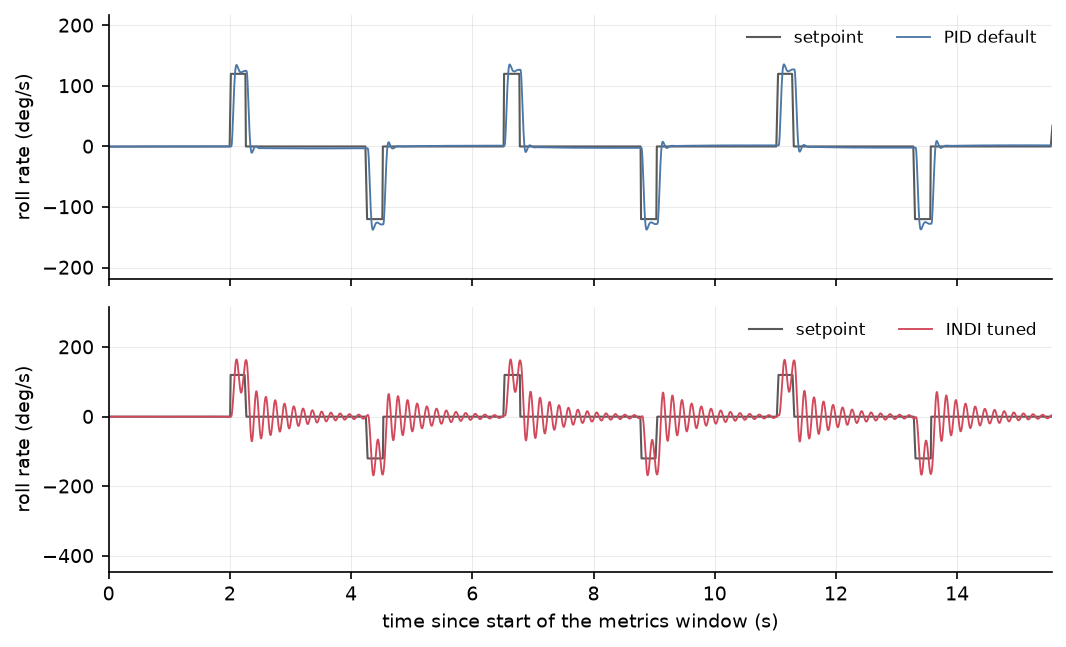
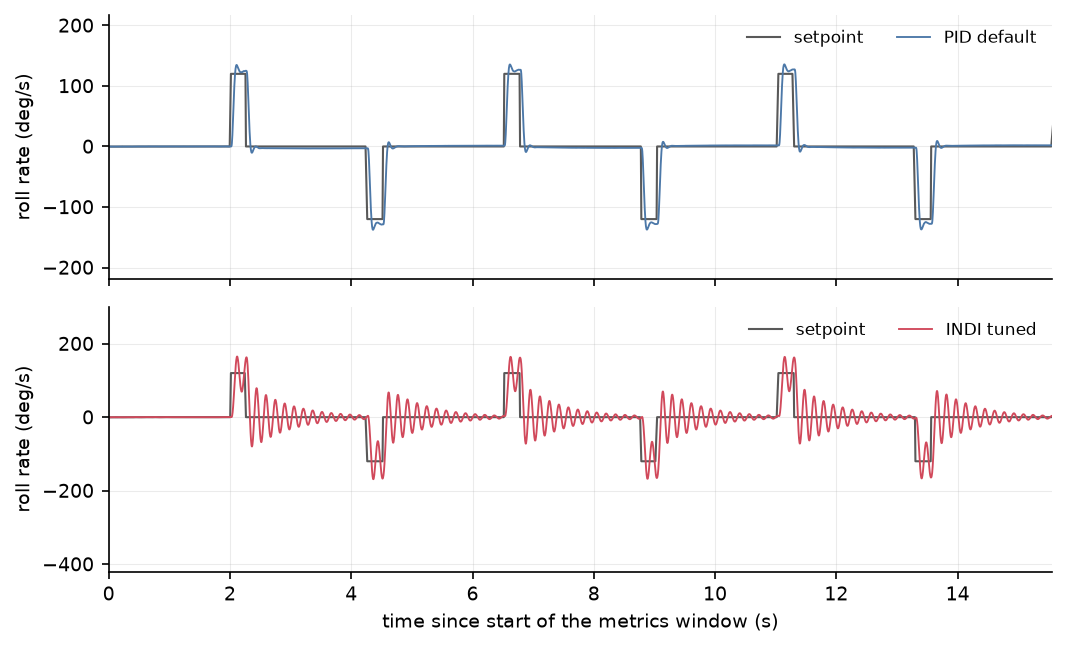
feat(indi-bench): add seed-1 time-series figures for the results chapter
Disturbance onset (T6/H2/H3), T8 fault onset, H6 step responses, T5
lemniscate and H4 crash, read from the run ULogs; existing ratio figures
regenerated.

Assisted-by: Claude Opus 5.5

diff --git a/indi_project/bench/make_figures.py b/indi_project/bench/make_figures.py
@@ -233,6 +233,199 @@ def fig_timeseries():
     plt.close(fig)
     return None
 
+# ---- figures 5-9: time series around events (seed 1 unless stated) -------------------------------------------------
+def _ulog(scen, ctrl, seed=1, sfx=''):
+    from pyulog import ULog
+    d = os.path.join(RUNS, scen, ctrl, f'seed{seed}{sfx}')
+    ulg = ULog(os.path.join(d, 'flight.ulg'))
+    return {x.name: x.data for x in ulg.data_list}, json.load(open(os.path.join(d, 'metrics.json'))), \
+        json.load(open(os.path.join(d, 'run.json')))
+
+
+def _qmul(a, b):
+    w1, x1, y1, z1 = a.T
+    w2, x2, y2, z2 = b.T
+    return np.stack([w1*w2 - x1*x2 - y1*y2 - z1*z2, w1*x2 + x1*w2 + y1*z2 - z1*y2,
+                     w1*y2 - x1*z2 + y1*w2 + z1*x2, w1*z2 + x1*y2 - y1*x2 + z1*w2], axis=1)
+
+
+def _att(d):
+    """time (s), q (n,4) of vehicle_attitude and q_d of the attitude setpoint held (zero-order) at those times"""
+    va, sp = d['vehicle_attitude'], d['vehicle_attitude_setpoint']
+    t = va['timestamp'] / 1e6
+    q = np.stack([va[f'q[{i}]'] for i in range(4)], axis=1)
+    qd = np.stack([sp[f'q_d[{i}]'] for i in range(4)], axis=1)
+    idx = np.clip(np.searchsorted(sp['timestamp'] / 1e6, t, side='right') - 1, 0, len(qd) - 1)
+    return t, q, qd[idx]
+
+
+def _rot_err_deg(q, qd):
+    qe = _qmul(q * np.array([1, -1, -1, -1]), qd)
+    return np.degrees(2 * np.arccos(np.clip(np.abs(qe[:, 0]), 0, 1)))
+
+
+def _euler_deg(q):
+    w, x, y, z = q.T
+    roll = np.arctan2(2*(w*x + y*z), 1 - 2*(x*x + y*y))
+    pitch = np.arcsin(np.clip(2*(w*y - z*x), -1, 1))
+    yaw = np.arctan2(2*(w*z + x*y), 1 - 2*(y*y + z*z))
+    return np.degrees(roll), np.degrees(pitch), np.degrees(yaw)
+
+
+def _tilt_deg(q):
+    return np.degrees(np.arccos(np.clip(1 - 2*(q[:, 1]**2 + q[:, 2]**2), -1, 1)))
+
+
+CTRLS = ((PID, C_PID, 'PID default'), (INDI, C_INDI, 'INDI tuned'))
+
+
+def fig_disturbance_onset():
+    fname = 'fig_disturbance_onset.png'
+    print(f"\n== {fname}")
+    fig, axes = plt.subplots(3, 1, figsize=(7.2, 6.0), sharex=True)
+    for ax, scen in zip(axes, ('gust_x', 'gust_diag', 'com_shift')):
+        for ctrl, col, lab in CTRLS:
+            d, m, _ = _ulog(scen, ctrl)
+            on = m['disturbance']['onset_s']
+            t, q, qd = _att(d)
+            e = _rot_err_deg(q, qd)
+            k = (t - on > -3) & (t - on < 20)
+            ax.plot(t[k] - on, e[k], color=col, lw=0.9, label=lab)
+            print(f"  {scen} {ctrl}: onset {on:.2f} s, max error in plot {e[k].max():.2f} deg")
+        ax.axvline(0, color='0.5', lw=0.8, ls=':')
+        ax.set_ylabel('attitude error (deg)')
+        ax.set_title(scen, fontsize=9, loc='left')
+    axes[0].legend(frameon=False, fontsize=8, loc='upper right')
+    axes[-1].set_xlabel('time since disturbance onset (s)')
+    fig.tight_layout()
+    fig.savefig(os.path.join(OUT, fname), dpi=150)
+    plt.close(fig)
+
+
+def fig_t8_fault():
+    fname = 'fig_t8_fault.png'
+    print(f"\n== {fname}")
+    fig, axes = plt.subplots(2, 1, figsize=(7.2, 4.6), sharex=True)
+    for ctrl, col, lab in CTRLS:
+        d, m, _ = _ulog('motor_loss_0', ctrl)
+        mf = m['motor_fault']
+        on, mot = mf['event_s'], mf['motor']
+        t, q, qd = _att(d)
+        e = _rot_err_deg(q, qd)
+        k = (t - on > -2) & (t - on < 10)
+        axes[0].plot(t[k] - on, e[k], color=col, lw=0.9, label=lab)
+        am = d['actuator_motors']
+        ta = am['timestamp'] / 1e6
+        c = am[f'control[{mot}]']
+        k = (ta - on > -2) & (ta - on < 10)
+        axes[1].plot(ta[k] - on, c[k], color=col, lw=0.9, label=lab)
+        print(f"  {ctrl}: fault at {on:.3f} s, motor {mot}, max error {e[(t-on>-2)&(t-on<10)].max():.2f} deg")
+    for ax in axes:
+        ax.axvline(0, color='0.5', lw=0.8, ls=':')
+    axes[0].set_ylabel('attitude error (deg)')
+    axes[1].set_ylabel('motor 0 command (normalised)')
+    axes[1].set_xlabel('time since fault onset (s)')
+    axes[0].legend(frameon=False, fontsize=8, loc='upper right')
+    fig.tight_layout()
+    fig.savefig(os.path.join(OUT, fname), dpi=150)
+    plt.close(fig)
+
+
+def fig_step_responses():
+    fname = 'fig_step_responses.png'
+    print(f"\n== {fname}")
+    # step_roll / step_pitch / step_yaw have no indi_tuned run on disk (only pid_default and earlier INDI variants),
+    # so only the diagonal step (step_diag, speed 4, dirs seed1_x4) is plotted
+    panels = (('step_diag', 0, 'roll (deg)'), ('step_diag', 1, 'pitch (deg)'), ('step_diag', None, 'tilt angle (deg)'))
+    fig, axes = plt.subplots(3, 1, figsize=(7.2, 6.0))
+    for ax, (scen, j, yl) in zip(axes, panels):
+        for ctrl, col, lab in CTRLS:
+            d, m, _ = _ulog(scen, ctrl, 1, '_x4')
+            t0, t1 = m['window']['start_s'], m['window']['end_s']
+            t, q, qd = _att(d)
+            if j is None:
+                y, ysp = _tilt_deg(q), _tilt_deg(qd)
+            else:
+                y, ysp = np.unwrap(np.radians(_euler_deg(q)[j])), np.unwrap(np.radians(_euler_deg(qd)[j]))
+                y, ysp = np.degrees(y), np.degrees(ysp)
+            k = (t >= t0) & (t <= t1)
+            if ctrl == PID:
+                ax.plot(t[k] - t0, ysp[k], color='0.35', lw=1, label='setpoint')
+            ax.plot(t[k] - t0, y[k], color=col, lw=0.9, label=lab)
+        ax.set_ylabel(yl)
+        ax.set_title(scen, fontsize=9, loc='left')
+    axes[0].legend(frameon=False, fontsize=8, loc='upper right', ncol=3)
+    axes[-1].set_xlabel('time since start of the metrics window (s)')
+    fig.tight_layout()
+    fig.savefig(os.path.join(OUT, fname), dpi=150)
+    plt.close(fig)
+
+
+def fig_lemniscate():
+    fname = 'fig_lemniscate.png'
+    print(f"\n== {fname}")
+    fig = plt.figure(figsize=(7.2, 3.6))
+    ax_g = fig.add_subplot(1, 2, 1)
+    ax_e = fig.add_subplot(1, 2, 2)
+    for ctrl, col, lab in CTRLS:
+        d, m, _ = _ulog('traj_lemniscate', ctrl)
+        t0, t1 = m['window']['start_s'], m['window']['end_s']
+        lp, sp = d['vehicle_local_position'], d['trajectory_setpoint']
+        t = lp['timestamp'] / 1e6
+        ts = sp['timestamp'] / 1e6
+        k = (t >= t0) & (t <= t1)
+        ks = (ts >= t0) & (ts <= t1)
+        if ctrl == PID:
+            ax_g.plot(sp['position[1]'][ks], sp['position[0]'][ks], color='0.35', lw=1, label='setpoint')
+        ax_g.plot(lp['y'][k], lp['x'][k], color=col, lw=0.9, label=lab)
+        # setpoint held between samples (zero-order hold), as in bench/metrics.py
+        ih = np.clip(np.searchsorted(ts, t[k], side='right') - 1, 0, len(ts) - 1)
+        ref = [sp[f'position[{i}]'][ih] for i in range(3)]
+        err = np.sqrt((lp['x'][k] - ref[0])**2 + (lp['y'][k] - ref[1])**2 + (lp['z'][k] - ref[2])**2)
+        ax_e.plot(t[k] - t0, err, color=col, lw=0.9, label=lab)
+        print(f"  {ctrl}: window {t0:.2f}-{t1:.2f} s, 3D error rms {np.sqrt(np.mean(err**2)):.3f} m (metrics {m['trajectory']['rms_3d_m']:.3f})")
+    ax_g.set_xlabel('east (m)')
+    ax_g.set_ylabel('north (m)')
+    ax_g.set_aspect('equal', adjustable='datalim')
+    ax_g.legend(frameon=False, fontsize=7.5)
+    ax_e.set_xlabel('time since start of the metrics window (s)')
+    ax_e.set_ylabel('3D position error (m)')
+    fig.tight_layout()
+    fig.savefig(os.path.join(OUT, fname), dpi=150)
+    plt.close(fig)
+
+
+def fig_h4_crash():
+    fname = 'fig_h4_crash.png'
+    print(f"\n== {fname}")
+    fig, axes = plt.subplots(2, 2, figsize=(7.2, 4.6), sharex='col')
+    styles = {1: '-', 2: '--', 3: ':'}
+    for j, (ctrl, col, lab) in enumerate(CTRLS):
+        for seed in (1, 2, 3):
+            d, m, _ = _ulog('motor_loss_2', ctrl, seed)
+            on = m['motor_fault']['event_s']
+            lp, ld = d['vehicle_local_position'], d['vehicle_land_detected']
+            tl = ld['timestamp'] / 1e6
+            kc = np.where((tl > on) & (ld['ground_contact'] > 0))[0]
+            tc = tl[kc[0]] if len(kc) else lp['timestamp'][-1] / 1e6
+            t = lp['timestamp'] / 1e6
+            k = (t >= on) & (t <= tc)
+            axes[0, j].plot(t[k] - on, -lp['z'][k], color=col, ls=styles[seed], lw=1, label=f'seed {seed}')
+            va = d['vehicle_attitude']
+            tv = va['timestamp'] / 1e6
+            q = np.stack([va[f'q[{i}]'] for i in range(4)], axis=1)
+            kv = (tv >= on) & (tv <= tc)
+            axes[1, j].plot(tv[kv] - on, _tilt_deg(q)[kv], color=col, ls=styles[seed], lw=1, label=f'seed {seed}')
+            print(f"  {ctrl} seed {seed}: fault {on:.3f} s, ground contact {tc - on:.2f} s after onset, max tilt {_tilt_deg(q)[kv].max():.1f} deg")
+        axes[0, j].set_title(lab, fontsize=9, loc='left', color=col)
+        axes[1, j].set_xlabel('time since fault onset (s)')
+        axes[0, j].legend(frameon=False, fontsize=7.5)
+    axes[0, 0].set_ylabel('altitude (m)')
+    axes[1, 0].set_ylabel('tilt angle (deg)')
+    fig.tight_layout()
+    fig.savefig(os.path.join(OUT, fname), dpi=150)
+    plt.close(fig)
+
 
 if __name__ == '__main__':
     miss = {}
@@ -240,5 +433,10 @@ if __name__ == '__main__':
     miss['eff'] = fig_effort_ratio()
     fig_act_tc_sweep()
     miss['ts'] = fig_timeseries()
+    for f in (fig_disturbance_onset, fig_t8_fault, fig_step_responses, fig_lemniscate, fig_h4_crash):
+        try:
+            f()
+        except Exception as ex:  # a figure that cannot be built is skipped and reported
+            miss[f.__name__] = repr(ex)
     print('\nMissing / skipped:', miss)
     print('Discrepancies > 2 %:', DISCREPANCIES if DISCREPANCIES else 'none')
